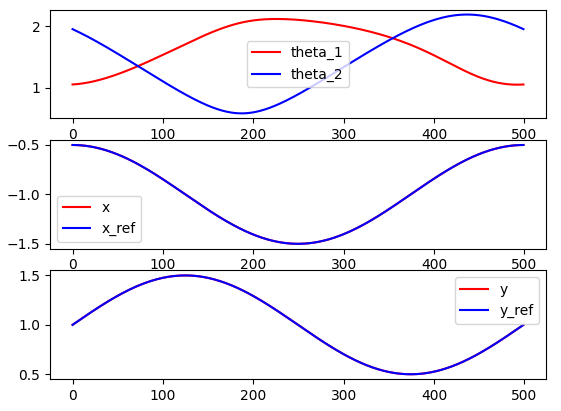
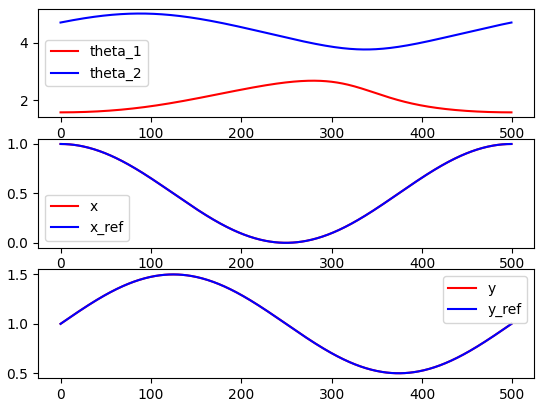
change trajectory

diff --git a/manipulator_2d/python_inverse_kinematics.py b/manipulator_2d/python_inverse_kinematics.py
@@ -87,12 +87,12 @@ def animate(Xs, X_refs, qs):
 
 
 def create_trajectory(simulator):
-    q = np.array([np.pi / 2, np.pi / 2])
+    q = np.array([np.pi * 0.5, np.pi * 1.5])
     r = 0.5
 
-    _, E0 = simulator.forward_kinematics(q[0], q[0])
+    _, E0 = simulator.forward_kinematics(q[0], q[1])
     phi = np.linspace(0, 2 * np.pi, 500)
-    X_refs = np.stack([E0[0] + r * np.cos(phi), E0[1] + r * np.sin(phi)], axis=-1)
+    X_refs = np.stack([E0[0] + r * (np.cos(phi) - 1), E0[1] + r * np.sin(phi)], axis=-1)
     return q, X_refs
 
 
